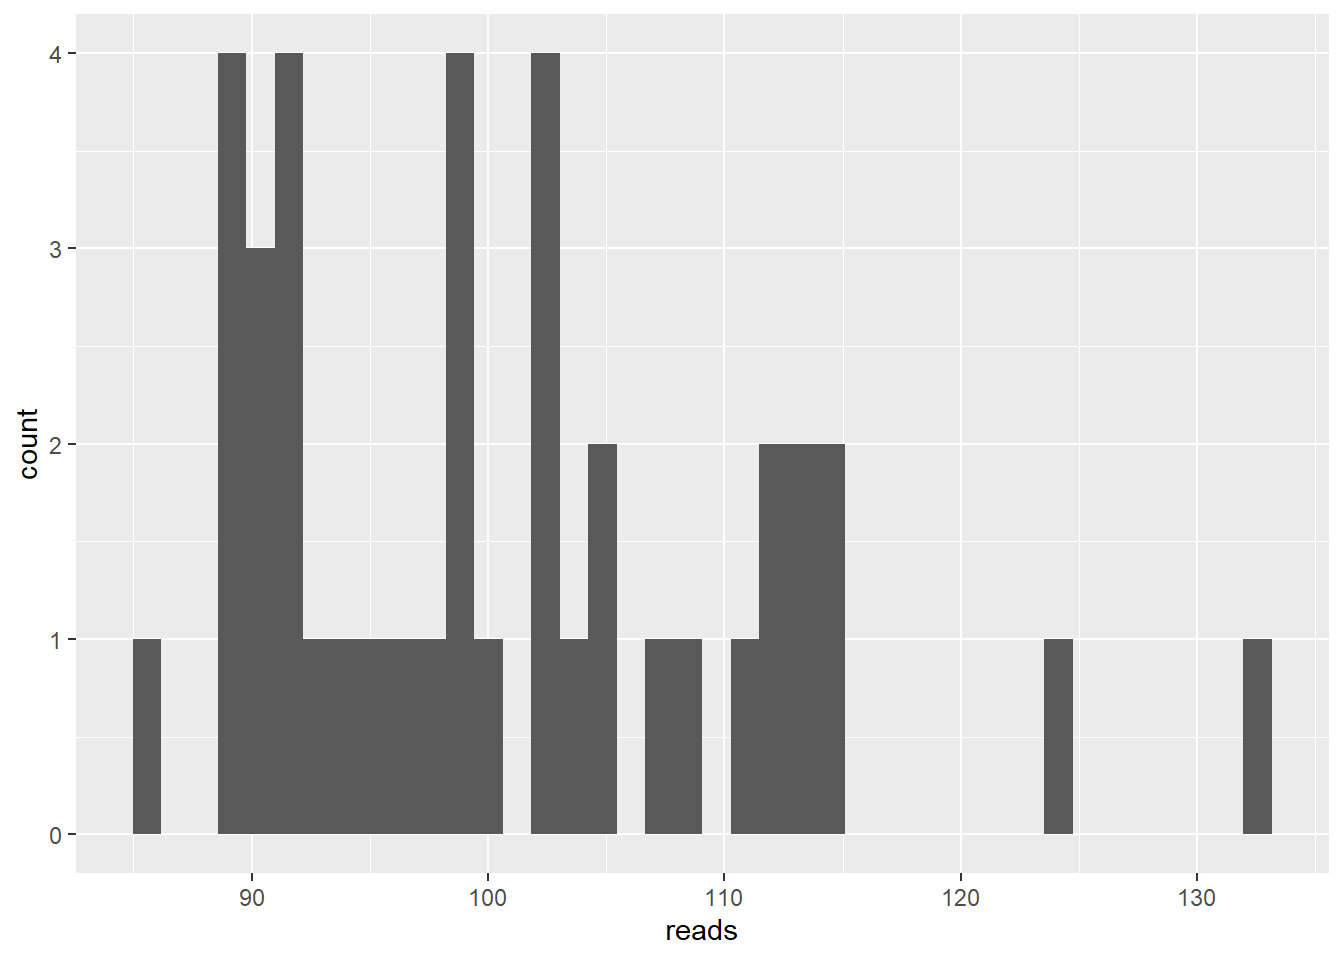
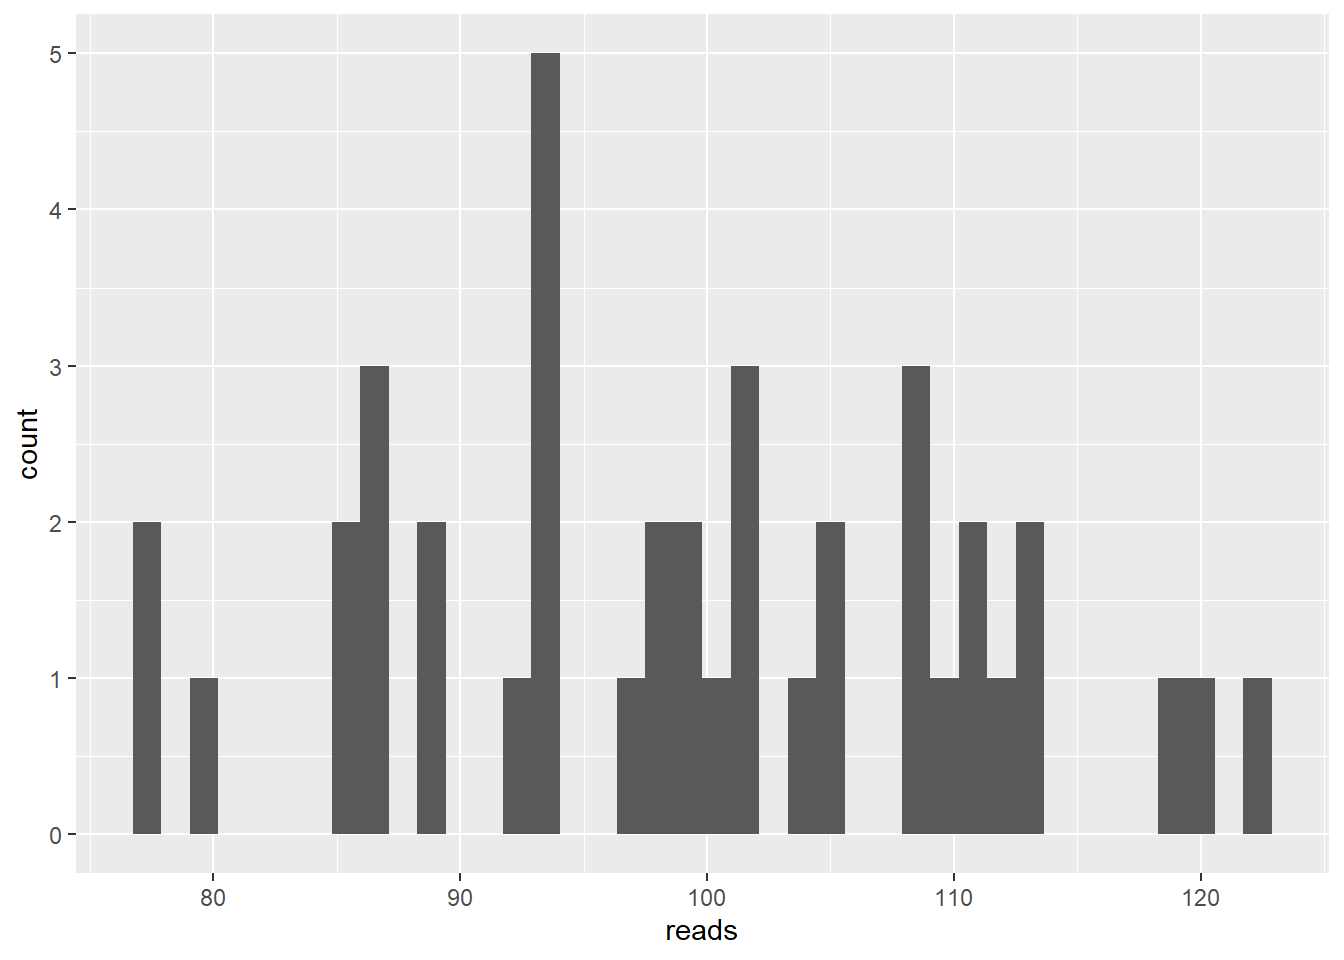
chapternames update

diff --git a/docs/Advanced_Bioinformatics_DESeq2.html b/docs/Advanced_Bioinformatics_DESeq2.html
@@ -657,13 +657,13 @@ Figure 2: Ambiguous reads present a problem in assigning a read to specific isof
 <p>A binomial distribution works with boolean values: true/false, 0 or 1, fail or succes. The simplest example of a binomial distribution is the coin toss. Each “cointoss” is called a Bernoulli trial.</p>
 <div class="sourceCode" id="cb4"><pre class="sourceCode r"><code class="sourceCode r"><span id="cb4-1"><a href="#cb4-1"></a><span class="co">#randomly generate 10 cointosses</span></span>
 <span id="cb4-2"><a href="#cb4-2"></a><span class="kw">rbinom</span>(<span class="dt">n =</span> <span class="dv">10</span>, <span class="dt">size =</span> <span class="dv">1</span>, <span class="dt">prob =</span> <span class="fl">0.5</span>)</span>
-<span id="cb4-3"><a href="#cb4-3"></a><span class="co">##  [1] 1 1 1 0 1 0 1 0 0 0</span></span></code></pre></div>
+<span id="cb4-3"><a href="#cb4-3"></a><span class="co">##  [1] 0 1 1 1 0 0 0 0 1 1</span></span></code></pre></div>
 <p>exercise: Use rbinom to simulate 100 <strong>double</strong> die rolls. Where throwing 6 is considered “succes” and everything below a “fail”. The results should show a “1” when a single 6 has been rolled and “2” when both die rolled a 6.</p>
 <div class="sourceCode" id="cb5"><pre class="sourceCode r"><code class="sourceCode r"><span id="cb5-1"><a href="#cb5-1"></a><span class="co">#Answer:</span></span>
 <span id="cb5-2"><a href="#cb5-2"></a><span class="kw">rbinom</span>(<span class="dv">100</span>, <span class="dv">2</span>, <span class="dt">prob =</span> <span class="dv">1</span><span class="op">/</span><span class="dv">6</span>)</span>
-<span id="cb5-3"><a href="#cb5-3"></a><span class="co">##   [1] 0 0 0 1 1 0 0 0 0 1 0 1 0 1 0 0 1 0 0 1 0 0 0 0 0 1 0 1 0 0 0 1 1 1 0 0 0</span></span>
-<span id="cb5-4"><a href="#cb5-4"></a><span class="co">##  [38] 0 0 0 1 0 0 0 0 1 1 0 0 0 0 0 1 1 0 1 2 1 1 0 0 0 1 0 1 0 0 0 0 0 1 0 0 0</span></span>
-<span id="cb5-5"><a href="#cb5-5"></a><span class="co">##  [75] 1 0 0 0 0 0 0 0 1 0 0 1 0 1 0 0 0 0 0 0 0 0 0 1 0 0</span></span></code></pre></div>
+<span id="cb5-3"><a href="#cb5-3"></a><span class="co">##   [1] 0 1 1 0 1 1 0 0 0 1 0 0 0 0 0 1 1 1 1 0 0 0 0 1 0 0 0 0 1 0 0 0 0 0 0 1 1</span></span>
+<span id="cb5-4"><a href="#cb5-4"></a><span class="co">##  [38] 0 0 1 0 0 1 0 1 1 1 0 0 1 0 0 1 0 0 1 0 0 0 0 0 0 0 0 1 0 0 0 1 1 0 0 1 0</span></span>
+<span id="cb5-5"><a href="#cb5-5"></a><span class="co">##  [75] 0 2 0 1 1 0 0 0 0 0 2 0 1 0 0 2 0 0 0 0 0 1 0 0 0 0</span></span></code></pre></div>
 <p>To get complete distribution of probabilities we use dbinom. note: use rbinom to generate data (r stands for random in this case). use dbinom to generate a probability. This also works with other statistical distributions as we will see later on in the lesson.</p>
 <div class="sourceCode" id="cb6"><pre class="sourceCode r"><code class="sourceCode r"><span id="cb6-1"><a href="#cb6-1"></a><span class="co">#probability that 6 is thrown twice.</span></span>
 <span id="cb6-2"><a href="#cb6-2"></a><span class="kw">dbinom</span>(<span class="dv">2</span>, <span class="dv">2</span>, <span class="dt">prob =</span> <span class="dv">1</span><span class="op">/</span><span class="dv">6</span>)</span>
@@ -865,25 +865,25 @@ Figure 6: Illustration of a V1 flying bomb. The V stands for ‘vergeltungswaffe
 <p><img src="Advanced_Bioinformatics_DESeq2_files/figure-html/unnamed-chunk-19-1.png" width="672" /></p>
 <div class="sourceCode" id="cb15"><pre class="sourceCode r"><code class="sourceCode r"><span id="cb15-1"><a href="#cb15-1"></a><span class="co">#calculate single datapoint for a single $\lambda$</span></span>
 <span id="cb15-2"><a href="#cb15-2"></a><span class="kw">dpois</span>(reads[<span class="dv">1</span>], <span class="dt">lambda =</span> <span class="dv">95</span>)</span>
-<span id="cb15-3"><a href="#cb15-3"></a><span class="co">## [1] 0.03502523786</span></span></code></pre></div>
+<span id="cb15-3"><a href="#cb15-3"></a><span class="co">## [1] 0.04089472617</span></span></code></pre></div>
 <p>After taking a look at the plot we decide the <span class="math inline">\(\lambda\)</span> must lie somewhere between 70 and 130. So we want to know what <span class="math inline">\(\lambda\)</span> between 70 and 130 is most likely for the first data point.</p>
 <div class="sourceCode" id="cb16"><pre class="sourceCode r"><code class="sourceCode r"><span id="cb16-1"><a href="#cb16-1"></a><span class="kw">dpois</span>(reads[<span class="dv">1</span>], <span class="dt">lambda =</span> <span class="kw">seq</span>(<span class="dt">from =</span> <span class="dv">70</span>, <span class="dt">to =</span> <span class="dv">130</span>))</span>
-<span id="cb16-2"><a href="#cb16-2"></a><span class="co">##  [1] 0.0001377801374 0.0002093741215 0.0003119200497 0.0004558113953</span></span>
-<span id="cb16-3"><a href="#cb16-3"></a><span class="co">##  [5] 0.0006536972494 0.0009205270220 0.0012734296240 0.0017313854199</span></span>
-<span id="cb16-4"><a href="#cb16-4"></a><span class="co">##  [9] 0.0023146590368 0.0030439772618 0.0039394581592 0.0050193236355</span></span>
-<span id="cb16-5"><a href="#cb16-5"></a><span class="co">## [13] 0.0062984555330 0.0077868818447 0.0094883013958 0.0113987690608</span></span>
-<span id="cb16-6"><a href="#cb16-6"></a><span class="co">## [17] 0.0135056666438 0.0157870753409 0.0182116440275 0.0207390147455</span></span>
-<span id="cb16-7"><a href="#cb16-7"></a><span class="co">## [21] 0.0233208254251 0.0259022639247 0.0284241014626 0.0308250921575</span></span>
-<span id="cb16-8"><a href="#cb16-8"></a><span class="co">## [25] 0.0330445929376 0.0350252378643 0.0367154948958 0.0380719417475</span></span>
-<span id="cb16-9"><a href="#cb16-9"></a><span class="co">## [29] 0.0390611196720 0.0396608572120 0.0398609968091 0.0396635015160</span></span>
-<span id="cb16-10"><a href="#cb16-10"></a><span class="co">## [33] 0.0390819628294 0.0381405700527 0.0368726335452 0.0353187766577</span></span>
-<span id="cb16-11"><a href="#cb16-11"></a><span class="co">## [37] 0.0335249230756 0.0315402077886 0.0294149319786 0.0271986664991</span></span>
-<span id="cb16-12"><a href="#cb16-12"></a><span class="co">## [41] 0.0249385874985 0.0226781034823 0.0204558080201 0.0183047684081</span></span>
-<span id="cb16-13"><a href="#cb16-13"></a><span class="co">## [45] 0.0162521395198 0.0143190749323 0.0125208948161 0.0108674621737</span></span>
-<span id="cb16-14"><a href="#cb16-14"></a><span class="co">## [49] 0.0093637155293 0.0080103065765 0.0068042948039 0.0057398569194</span></span>
-<span id="cb16-15"><a href="#cb16-15"></a><span class="co">## [53] 0.0048089761207 0.0040020841409 0.0033086368737 0.0027176117286</span></span>
-<span id="cb16-16"><a href="#cb16-16"></a><span class="co">## [57] 0.0022179213281 0.0017987435066 0.0014497717284 0.0011613930149</span></span>
-<span id="cb16-17"><a href="#cb16-17"></a><span class="co">## [61] 0.0009248023583</span></span>
+<span id="cb16-2"><a href="#cb16-2"></a><span class="co">##  [1] 0.0010051392131 0.0014028161356 0.0019216582541 0.0025850911481</span></span>
+<span id="cb16-3"><a href="#cb16-3"></a><span class="co">##  [5] 0.0034167577017 0.0044391191725 0.0056718043050 0.0071297983636</span></span>
+<span id="cb16-4"><a href="#cb16-4"></a><span class="co">##  [9] 0.0088215977870 0.0107474813240 0.0128980606019 0.0152532689734</span></span>
+<span id="cb16-5"><a href="#cb16-5"></a><span class="co">## [13] 0.0177819259012 0.0204419759757 0.0231814500272 0.0259401356921</span></span>
+<span id="cb16-6"><a href="#cb16-6"></a><span class="co">## [17] 0.0286518824944 0.0312474087678 0.0336574308966 0.0358159045027</span></span>
+<span id="cb16-7"><a href="#cb16-7"></a><span class="co">## [21] 0.0376631555732 0.0391486881028 0.0402334823160 0.0408916406139</span></span>
+<span id="cb16-8"><a href="#cb16-8"></a><span class="co">## [25] 0.0411112922003 0.0408947261699 0.0402577808313 0.0392285688718</span></span>
+<span id="cb16-9"><a href="#cb16-9"></a><span class="co">## [29] 0.0378456594192 0.0361558663134 0.0342118057772 0.0320693864797</span></span>
+<span id="cb16-10"><a href="#cb16-10"></a><span class="co">## [33] 0.0297853823651 0.0274152161548 0.0250110522975 0.0226202656486</span></span>
+<span id="cb16-11"><a href="#cb16-11"></a><span class="co">## [37] 0.0202843194428 0.0180380558360 0.0159093764533 0.0139192702550</span></span>
+<span id="cb16-12"><a href="#cb16-12"></a><span class="co">## [41] 0.0120821322087 0.0104063086494 0.0088948032484 0.0075460802687</span></span>
+<span id="cb16-13"><a href="#cb16-13"></a><span class="co">## [45] 0.0063549081342 0.0053131950888 0.0044107787615 0.0036361417866</span></span>
+<span id="cb16-14"><a href="#cb16-14"></a><span class="co">## [49] 0.0029770354787 0.0024210023588 0.0019557957059 0.0015697001061</span></span>
+<span id="cb16-15"><a href="#cb16-15"></a><span class="co">## [53] 0.0012517611813 0.0009919353996 0.0007811723043 0.0006114418675</span></span>
+<span id="cb16-16"><a href="#cb16-16"></a><span class="co">## [57] 0.0004757192324 0.0003679380957 0.0002829226071 0.0002163061118</span></span>
+<span id="cb16-17"><a href="#cb16-17"></a><span class="co">## [61] 0.0001644434795</span></span>
 <span id="cb16-18"><a href="#cb16-18"></a></span>
 <span id="cb16-19"><a href="#cb16-19"></a>likelihood &lt;-<span class="st"> </span><span class="kw">dpois</span>(reads[<span class="dv">1</span>], <span class="dt">lambda =</span> <span class="kw">seq</span>(<span class="dt">from =</span> <span class="dv">70</span>, <span class="dt">to =</span> <span class="dv">130</span>))</span>
 <span id="cb16-20"><a href="#cb16-20"></a>likelihood &lt;-<span class="st"> </span><span class="kw">data.frame</span>(<span class="dt">likelihood =</span> likelihood)</span>
@@ -916,8 +916,8 @@ Figure 6: Illustration of a V1 flying bomb. The V stands for ‘vergeltungswaffe
 <p>Depending on your seed the <span class="math inline">\(\lambda\)</span> estimated can vary but it should approach 100.</p>
 <p><em><span class="citation">@Marc</span>: We hadden dit vorige week al besproken maar de MLE lambda is nogsteeds gelijk aan het gemiddelde van de reads. Misschien is Poisson gewoon een slecht voorbeeld om een MLE mee te doen. In principe is het bovenstaande stuk over MLE nu zo goed als gelijk aan de website die je mij doorstuurde: <a href="https://cmdlinetips.com/2019/03/introduction-to-maximum-likelihood-estimation-in-r/" class="uri">https://cmdlinetips.com/2019/03/introduction-to-maximum-likelihood-estimation-in-r/</a></em></p>
 </div>
-<div id="estimation-of-size-factor-normalizing-the-data" class="section level2">
-<h2><span class="header-section-number">3.6</span> Estimation of size factor: “Normalizing” the data</h2>
+<div id="estimation-of-size-factor" class="section level2">
+<h2><span class="header-section-number">3.6</span> Estimation of size factor</h2>
 <p>When comparing the read counts of a gene between 2 experimental conditions we need to make sure that the difference is only influenced by the treatment and not by any other variables. Lets take a look at the “airway” dataset. This dataset contains the summarized experiment from an experiment that treated airway smooth muscle cells with dexamethasone (glucocorticosteroid).</p>
 <div class="sourceCode" id="cb21"><pre class="sourceCode r"><code class="sourceCode r"><span id="cb21-1"><a href="#cb21-1"></a></span>
 <span id="cb21-2"><a href="#cb21-2"></a><span class="co">#Lets take a look at some of the assaydata</span></span>
@@ -1010,8 +1010,8 @@ Figure 8: estimation of size factor. Dots represent genes. Blue and red lines re
 <li>Housekeeping genes: These genes are essential for basic maintenance and function of the cell. Some of these are expressed at relatively constant rates.</li>
 </ul>
 </div>
-<div id="estimating-dispersion-second-step-of-deseq2-and-negative-binomial-distribution" class="section level2">
-<h2><span class="header-section-number">3.7</span> Estimating dispersion (second step of DESeq2) and negative binomial distribution</h2>
+<div id="estimating-dispersion-and-negative-binomial-distribution" class="section level2">
+<h2><span class="header-section-number">3.7</span> Estimating dispersion and negative binomial distribution</h2>
 <p>At first it was believed that the expression of a gene followed a Poisson distribution. It turned out however that this was only the case when evaluating samples that were technical replicates.</p>
 <p>The main problem with the Poisson distribution is the <span class="math inline">\(\lambda\)</span> parameter because in this distribtion: <span class="math inline">\(\lambda\)</span> = mean = variance. To accurately model the data we need a distribution that uses separate parameters for mean and variance (dispersion). This is where the negative binomial distribution comes in. It accepts these parameters and is used by DEseq to model the data. Before we can use this distribution however we do need to find out what these 2 parameters are. The mean is simple enough but what about the dispersion parameter?</p>
 <p>Estimating dispersion of a gene is hard/impossible if you only have 3 samples per experiment group because n is too small. You would need quite alot of samples to accurately predict the dispersion and quite often you are working with data gathered by someone else so this is simply not an option. As a solution DESeq2 assumes genes of similar average expression have a similar dispersion (Love et al 2014). DEseq2 calculates the dispersion of individual genes and then calculates an average dispersion of genes that are expressed in simular quantities. It then “shrinks” the individual dispersions towards the average dispersion. To get a better understanding of this shrinking it is useful to plot the dispersion in your dataset (figure x).</p>
